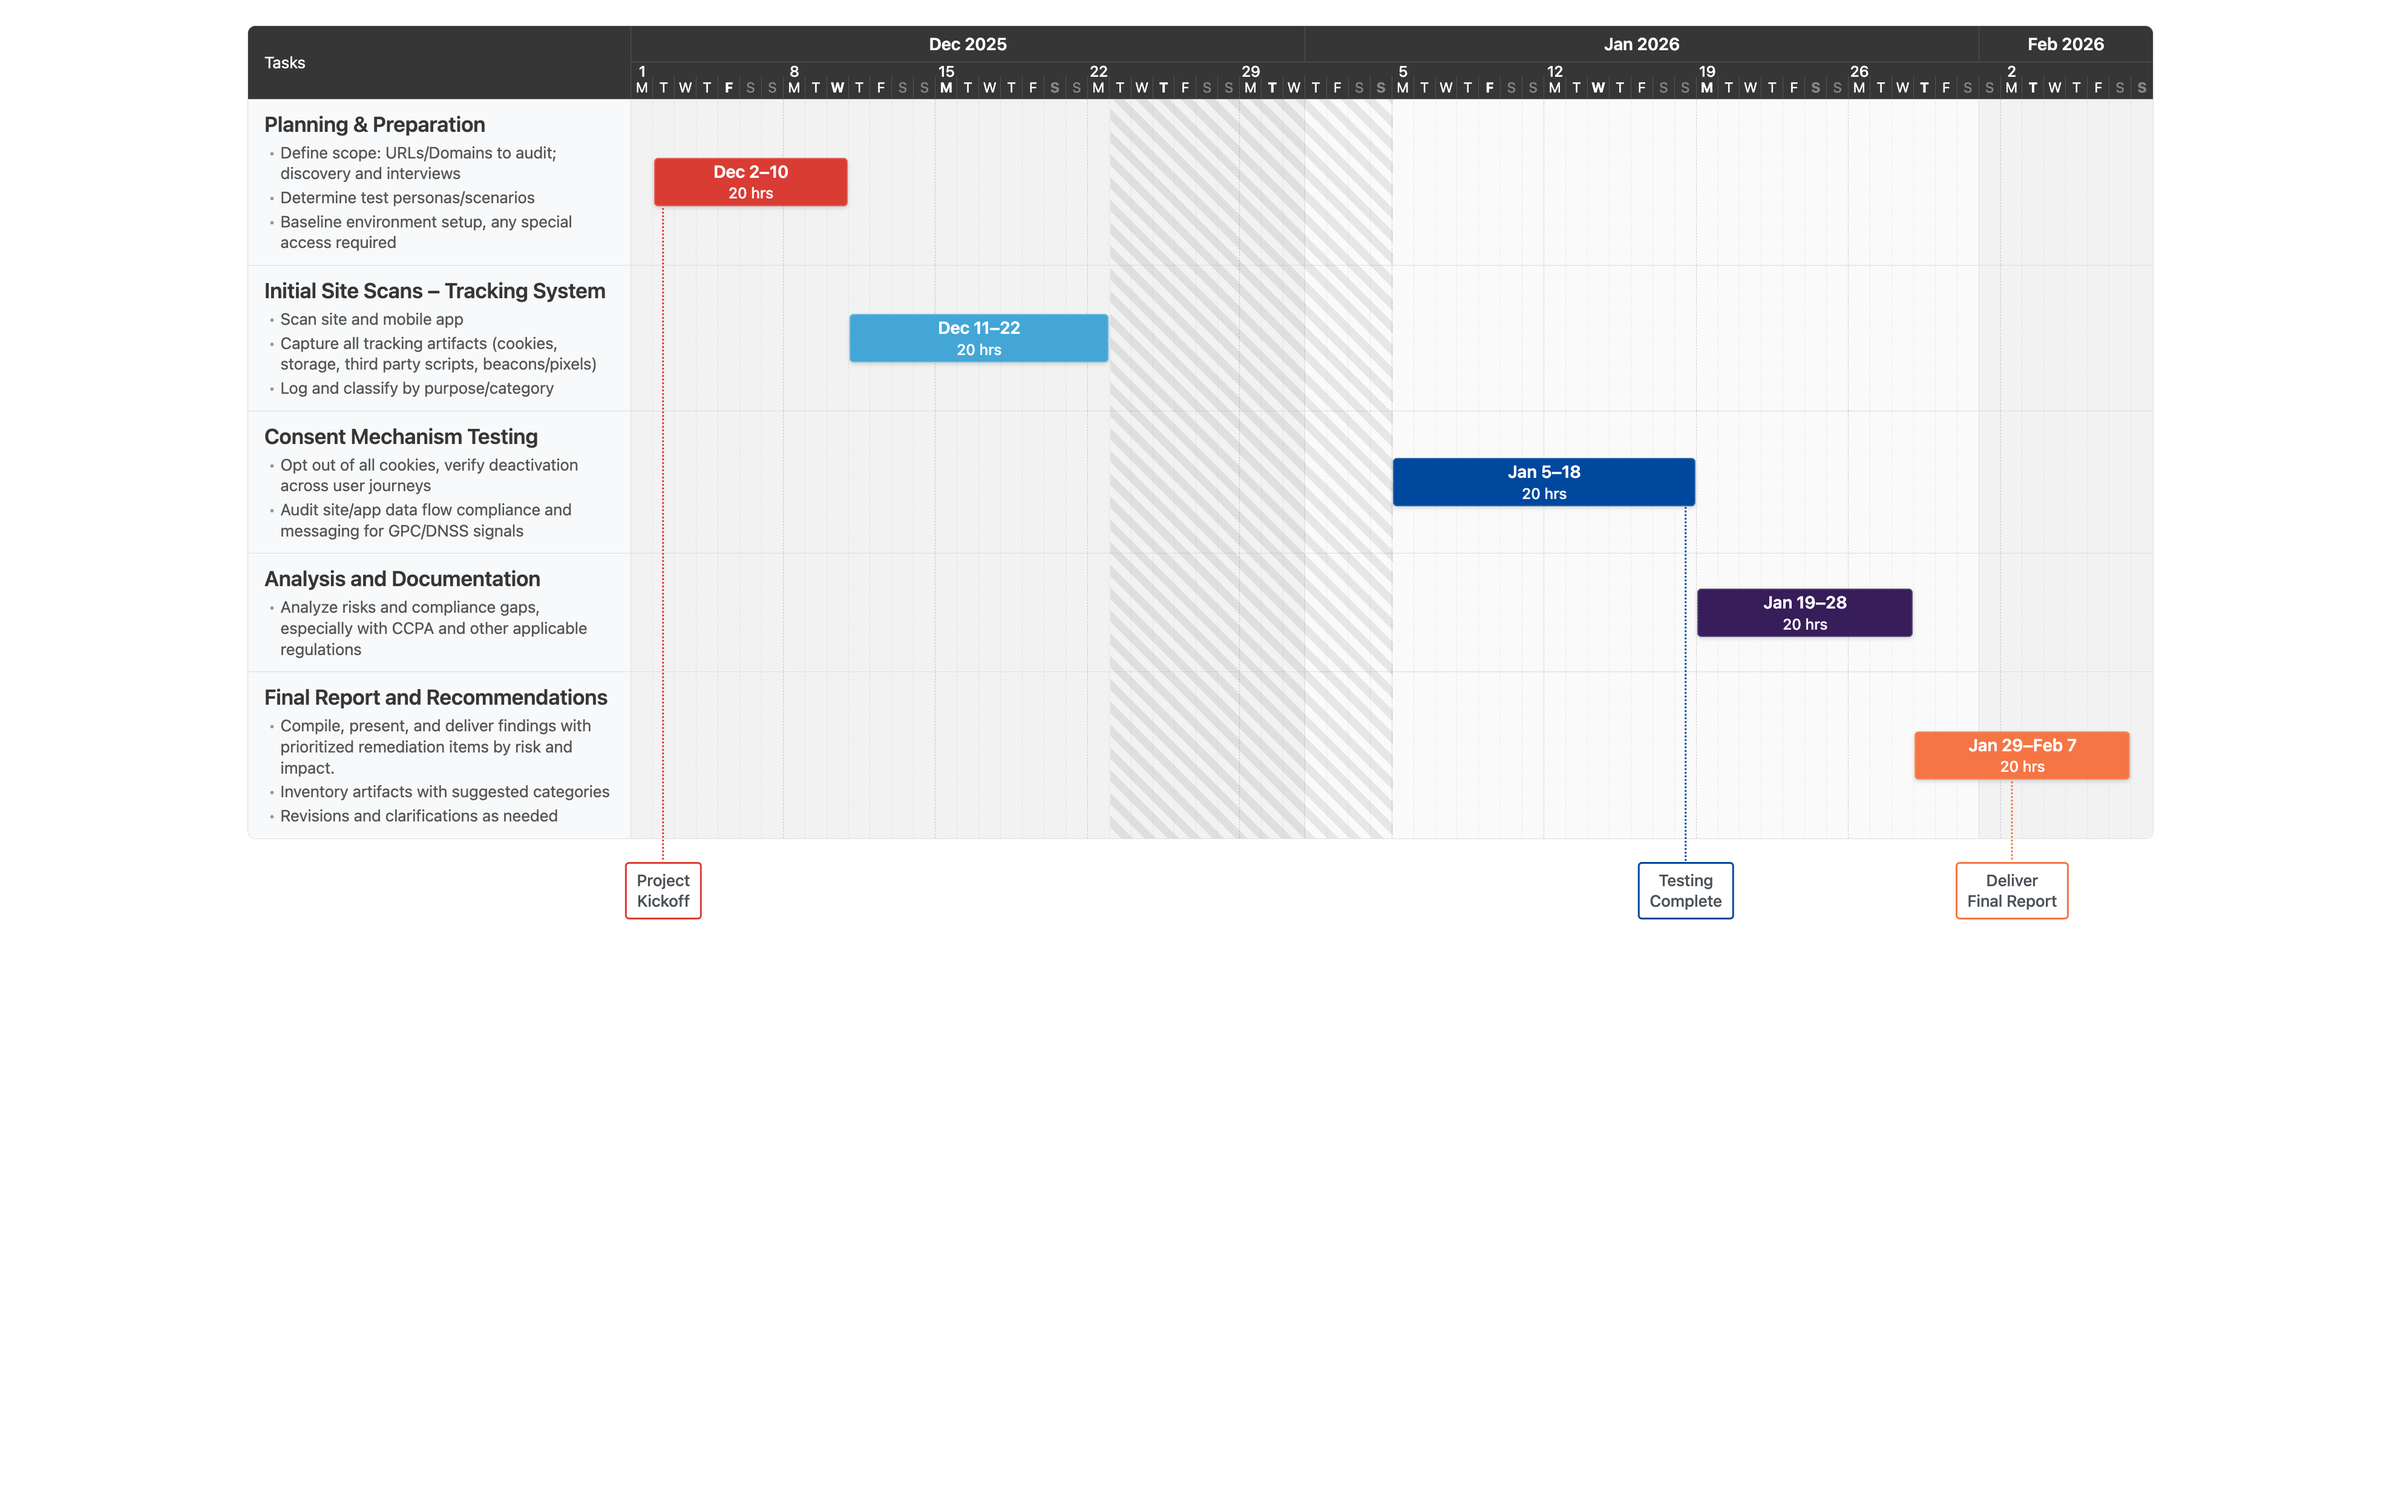
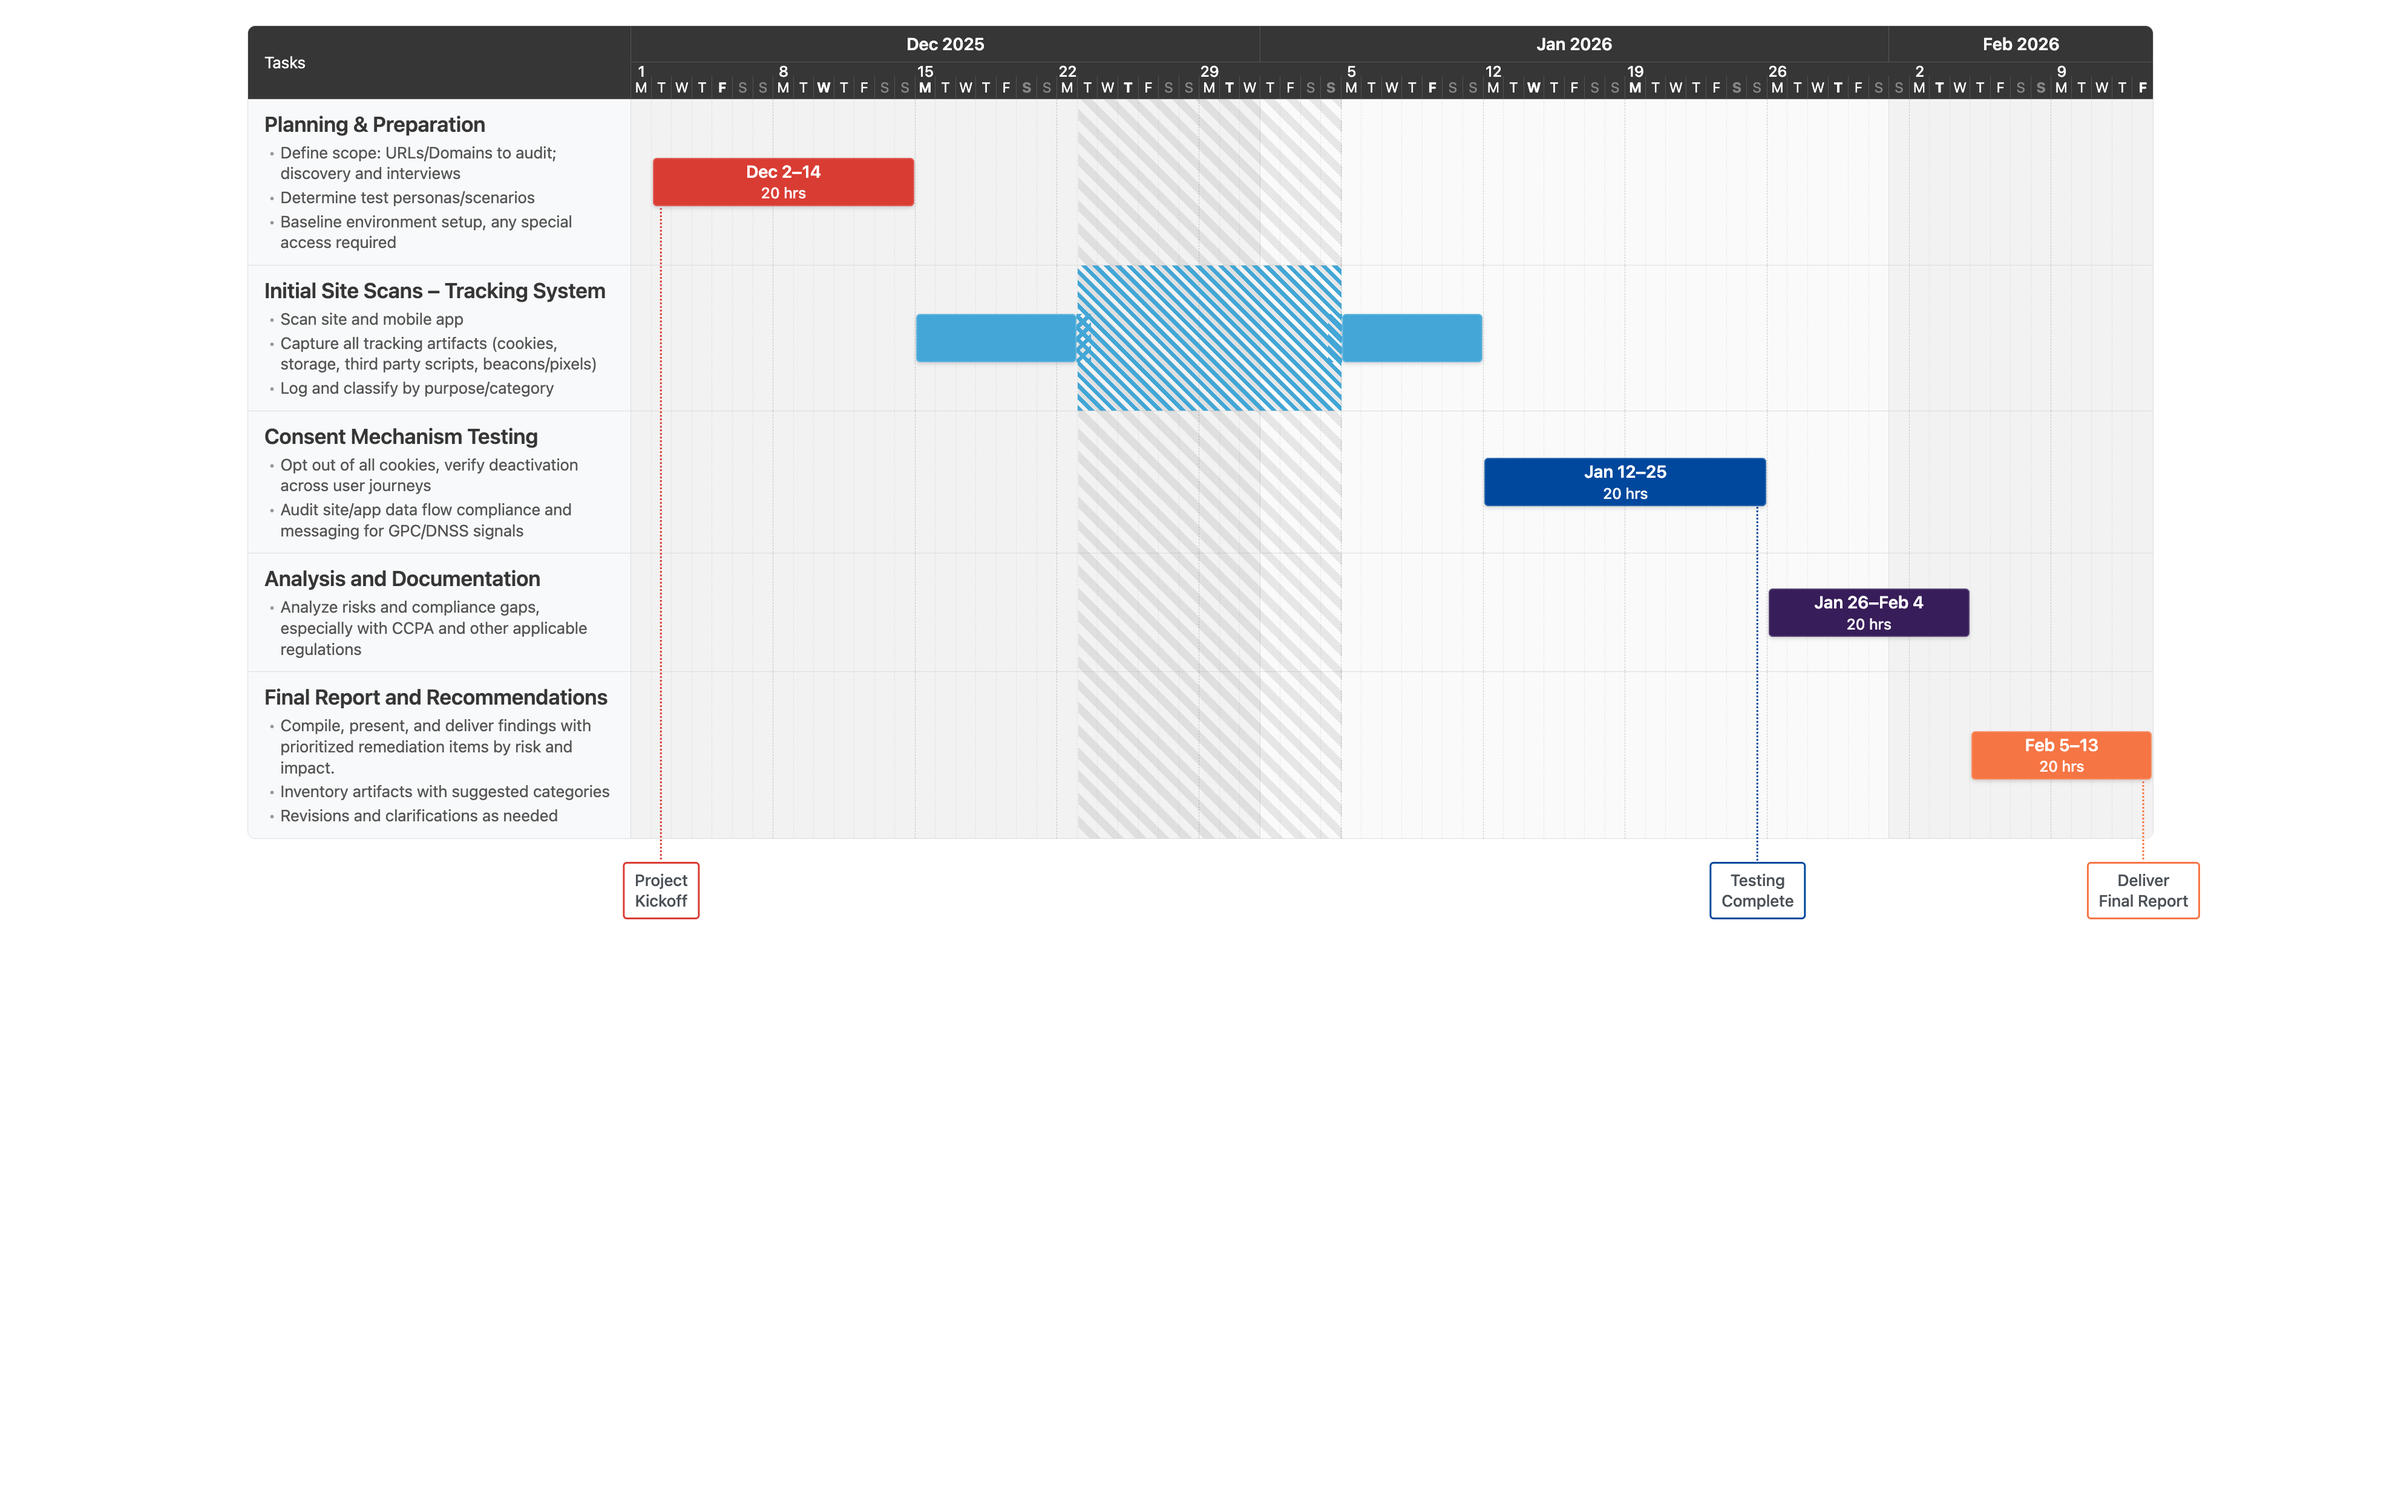
Add break effect for task bars spanning pause periods
- Implement diagonal stripe connector for interrupted task bars
- Remove rounded corners on interrupted edges (sharp edges)
- Remove outline/border on interrupted sides
- Use harmonic frequency (4px cycle) for stripes to align with pause overlay
- Thin, high-frequency diagonal stripes (1px color, 4px cycle)
- Stripe connector spans full height of task bar (48px)
- Segments maintain rounded corners on outer edges only

diff --git a/gantt_chart_presentation.html b/gantt_chart_presentation.html
@@ -256,6 +256,23 @@
             overflow: visible;
         }
         
+        /* Interrupted task bar segments - sharp edges on interrupted side */
+        .task-bar-segment-left {
+            border-radius: 4px 0 0 4px; /* Rounded only on left side */
+            box-shadow: inset 1px 0 0 0 rgba(255,255,255,0.2), /* Left border */
+                        inset 0 1px 0 0 rgba(255,255,255,0.2), /* Top border */
+                        inset 0 -1px 0 0 rgba(255,255,255,0.2), /* Bottom border */
+                        0 2px 4px rgba(0,0,0,0.15); /* Drop shadow */
+        }
+        
+        .task-bar-segment-right {
+            border-radius: 0 4px 4px 0; /* Rounded only on right side */
+            box-shadow: inset -1px 0 0 0 rgba(255,255,255,0.2), /* Right border */
+                        inset 0 1px 0 0 rgba(255,255,255,0.2), /* Top border */
+                        inset 0 -1px 0 0 rgba(255,255,255,0.2), /* Bottom border */
+                        0 2px 4px rgba(0,0,0,0.15); /* Drop shadow */
+        }
+        
         .task-bar-date {
             font-size: 17px;
             line-height: 1.2;
@@ -269,6 +286,24 @@
             line-height: 1.2;
             margin-top: 2px;
             opacity: 0.95;
+        }
+        
+        /* Break effect for task bars spanning pause periods */
+        .task-bar-stripe-connector {
+            position: absolute;
+            height: 48px; /* Same height as task bar */
+            top: 50%;
+            transform: translateY(-50%);
+            z-index: 11;
+            pointer-events: none;
+            background: repeating-linear-gradient(
+                45deg,
+                currentColor 0px,
+                currentColor 1px,
+                transparent 1px,
+                transparent 4px
+            );
+            opacity: 1;
         }
         
         /* Remove task bar connector - using milestone connector instead */
@@ -649,11 +684,25 @@
         
         // Create task rows
         let tasksHTML = CONFIG.tasks.map((task, originalIndex) => {
-            const startCol = getDayIndex(task.start, CONFIG.timelineStart);
-            const endCol = getDayIndex(task.end, CONFIG.timelineStart) + 1;
+            const taskStart = new Date(task.start);
+            const taskEnd = new Date(task.end);
             const label = formatDateRange(task.start, task.end, CONFIG.dateFormat);
             const hours = task.hours !== undefined ? task.hours : 0;
             const hoursText = hours > 0 ? `${hours} hrs` : '';
+            
+            // Check if task spans across any pause period
+            let intersectingPause = null;
+            if (CONFIG.pausePeriods && CONFIG.pausePeriods.length > 0) {
+                for (const pause of CONFIG.pausePeriods) {
+                    const pauseStart = new Date(pause.start);
+                    const pauseEnd = new Date(pause.end);
+                    // Check if task spans across pause (starts before pause ends and ends after pause starts)
+                    if (taskStart < pauseEnd && taskEnd > pauseStart) {
+                        intersectingPause = pause;
+                        break;
+                    }
+                }
+            }
             
             // Create grid lines
             const gridLines = days.map((d, i) => {
@@ -693,6 +742,48 @@
                 ? `<div class="subtasks">${task.subtasks.map(st => `<div class="subtask">${st}</div>`).join('')}</div>`
                 : '';
             
+            // Render task bar(s) - split if spanning pause period
+            let taskBarsHTML = '';
+            if (intersectingPause) {
+                // Split task bar into two segments
+                const pauseStart = new Date(intersectingPause.start);
+                const pauseEnd = new Date(intersectingPause.end);
+                
+                // First segment: task start to pause start
+                const segment1StartCol = getDayIndex(task.start, CONFIG.timelineStart);
+                const segment1EndCol = getDayIndex(intersectingPause.start, CONFIG.timelineStart);
+                
+                // Second segment: pause end to task end
+                const segment2StartCol = getDayIndex(intersectingPause.end, CONFIG.timelineStart) + 1;
+                const segment2EndCol = getDayIndex(task.end, CONFIG.timelineStart) + 1;
+                
+                // Calculate stripe connector position and width (spans the gap between segments)
+                const connectorStartCol = segment1EndCol;
+                const connectorEndCol = segment2StartCol;
+                const connectorLeft = ((connectorStartCol - 1) / totalDays) * 100;
+                const connectorWidth = ((connectorEndCol - connectorStartCol) / totalDays) * 100;
+                
+                taskBarsHTML = `
+                    <div class="task-bar task-bar-segment-left" data-task-index="${originalIndex}" style="grid-column: ${segment1StartCol} / ${segment1EndCol}; background: ${task.color}; --task-line-color: ${task.color};">
+                        <div class="task-bar-date">${label}</div>
+                        ${hoursText ? `<div class="task-bar-hours">${hoursText}</div>` : ''}
+                    </div>
+                    <div class="task-bar-stripe-connector" style="left: ${connectorLeft}%; width: ${connectorWidth}%; color: ${task.color};"></div>
+                    <div class="task-bar task-bar-segment-right" data-task-index="${originalIndex}" style="grid-column: ${segment2StartCol} / ${segment2EndCol}; background: ${task.color}; --task-line-color: ${task.color};">
+                    </div>
+                `;
+            } else {
+                // Single continuous task bar
+                const startCol = getDayIndex(task.start, CONFIG.timelineStart);
+                const endCol = getDayIndex(task.end, CONFIG.timelineStart) + 1;
+                taskBarsHTML = `
+                    <div class="task-bar" data-task-index="${originalIndex}" style="grid-column: ${startCol} / ${endCol}; background: ${task.color}; --task-line-color: ${task.color};">
+                        <div class="task-bar-date">${label}</div>
+                        ${hoursText ? `<div class="task-bar-hours">${hoursText}</div>` : ''}
+                    </div>
+                `;
+            }
+            
             return `
                 <div class="gantt-row task-row" data-task-index="${originalIndex}">
                     <div class="col-task">
@@ -704,10 +795,7 @@
                             ${gridLines}
                         </div>
                         ${monthBackgrounds.join('')}
-                        <div class="task-bar" data-task-index="${originalIndex}" style="grid-column: ${startCol} / ${endCol}; background: ${task.color}; --task-line-color: ${task.color};">
-                            <div class="task-bar-date">${label}</div>
-                            ${hoursText ? `<div class="task-bar-hours">${hoursText}</div>` : ''}
-                        </div>
+                        ${taskBarsHTML}
                     </div>
                 </div>
             `;
